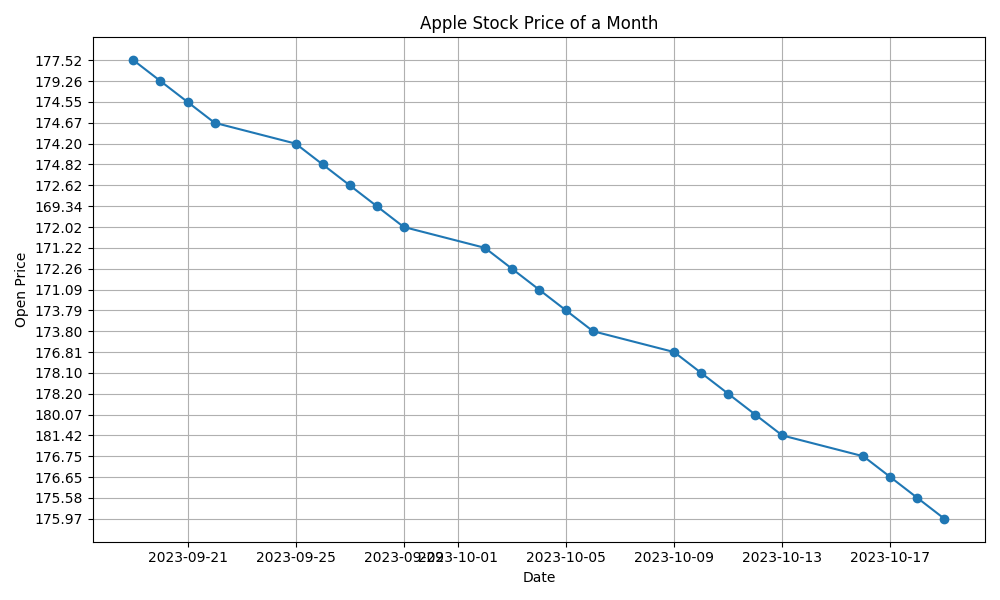
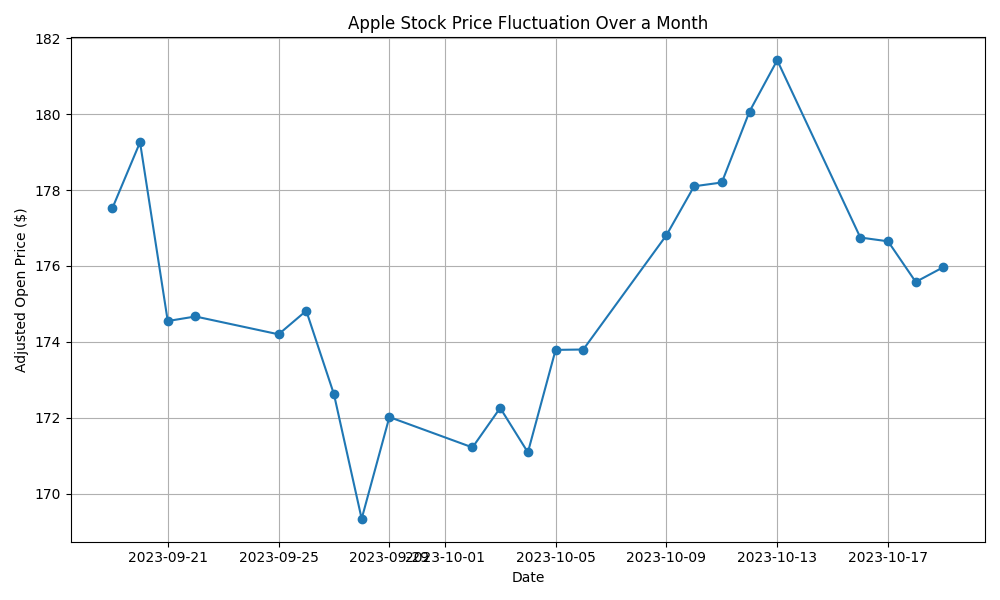
Chart is properly displaying the change in price

diff --git a/src/analysis/plotter.py b/src/analysis/plotter.py
@@ -30,20 +30,31 @@ def plot_stock_data(stock_data):
     #Sort the data by date
     df_Conversion = df_Conversion.sort_values('date')
     
-    #Plotting
+    # Convert the 'price' column to float
+    df_Conversion['price'] = df_Conversion['price'].astype(float)
+    
+    # Calculate the daily fluctuation compared to the previous day
+    df_Conversion['daily_fluctuation'] = df_Conversion['price'].diff()
+    
+    # Instead of adjusting the first row, just set NaN to 0
+    df_Conversion['daily_fluctuation'].fillna(0, inplace=True)
+    
+    # Create the adjusted price series
+    df_Conversion['adjusted_price'] = df_Conversion['price'].iloc[0] + df_Conversion['daily_fluctuation'].cumsum()
+    
+    # Plotting
     plt.figure(figsize=(10,6))
-    plt.plot(df_Conversion['date'], df_Conversion['price'], marker = 'o', linestyle = '-')
-    plt.title('Apple Stock Price of a Month')
+    
+    # Plot the adjusted price over time
+    plt.plot(df_Conversion['date'], df_Conversion['adjusted_price'], marker = 'o', linestyle = '-')
+    
+    plt.title('Apple Stock Price Fluctuation Over a Month')
     plt.xlabel('Date')
-    plt.ylabel('Open Price')
+    plt.ylabel('Adjusted Open Price ($)') 
     plt.grid(True)
     plt.tight_layout()
     
-    
-    #Invert the y-axis
-    plt.gca().invert_yaxis()
-    
-    #Save the plot to the static/img directory (will use in web app)
+    # Save the plot to the static/img directory (will use in web app)
     plot_path = os.path.join(img_dir_path, 'apple_stock_plot.png')
     
     # Ensure the directory exists
